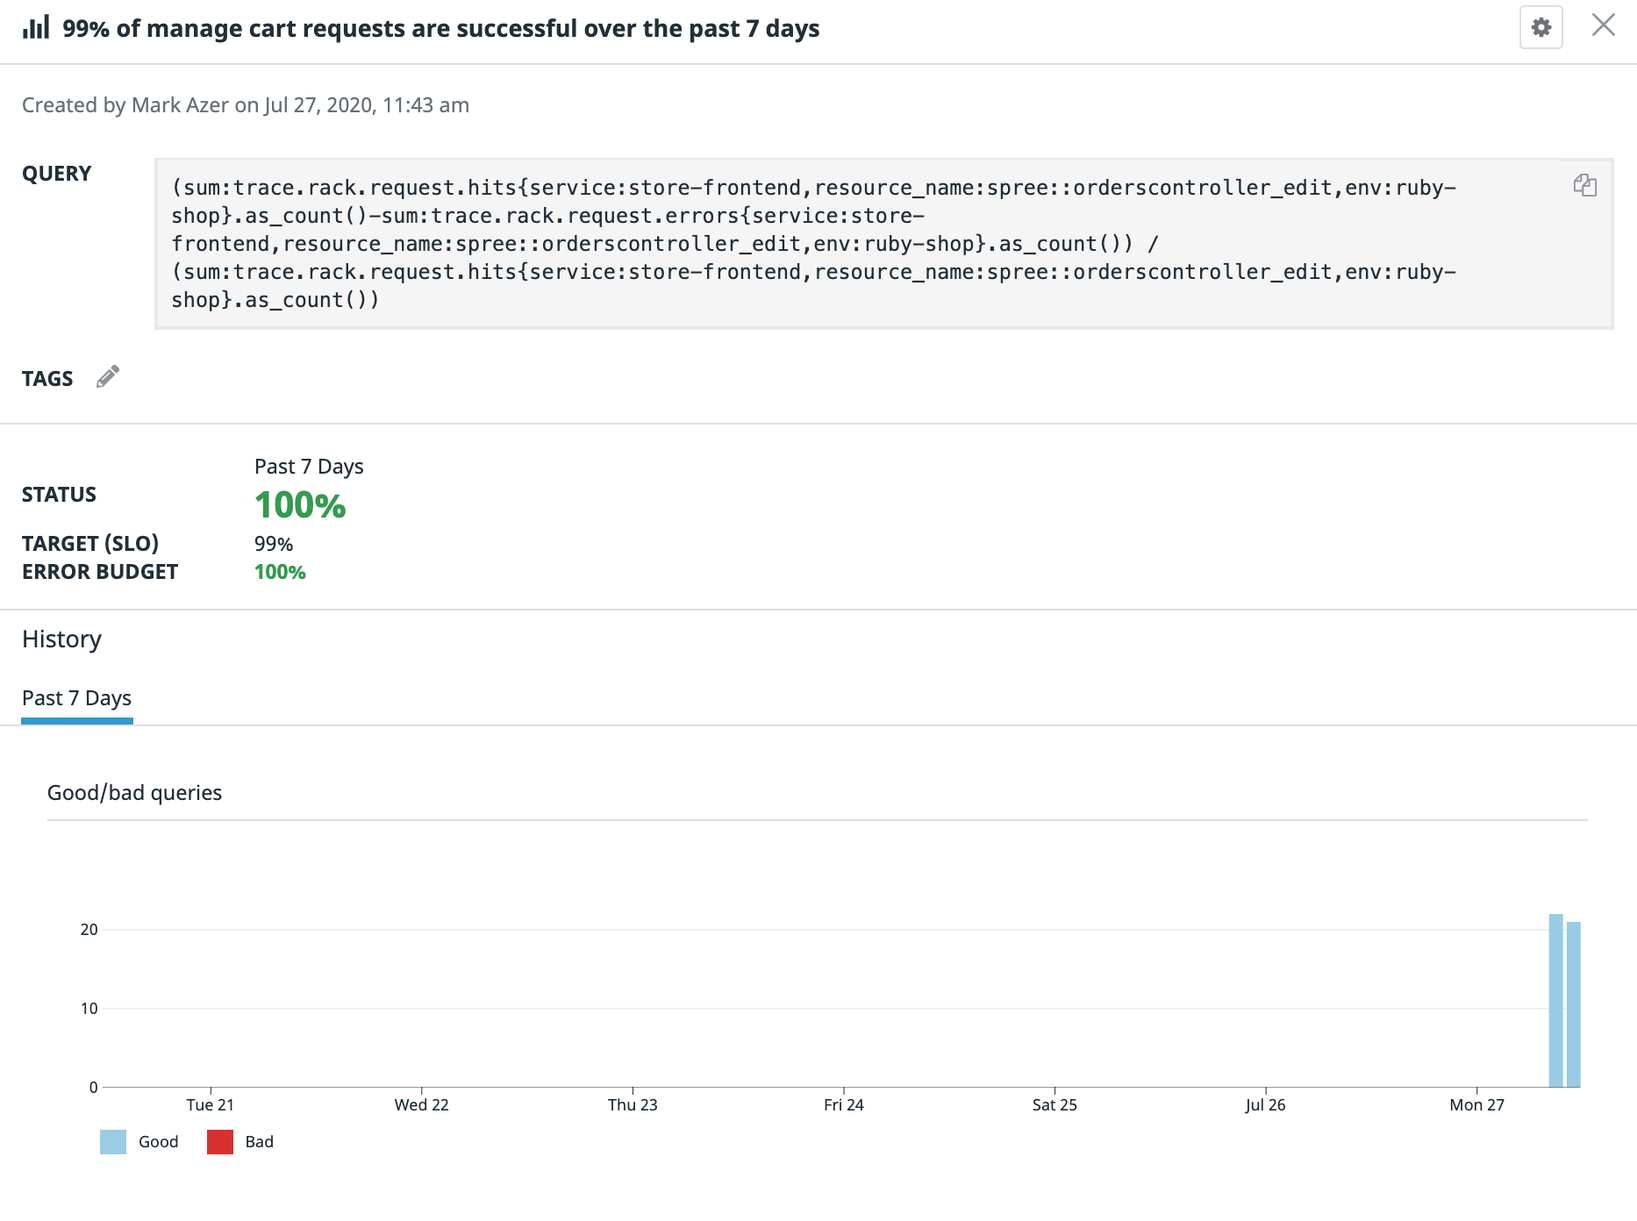
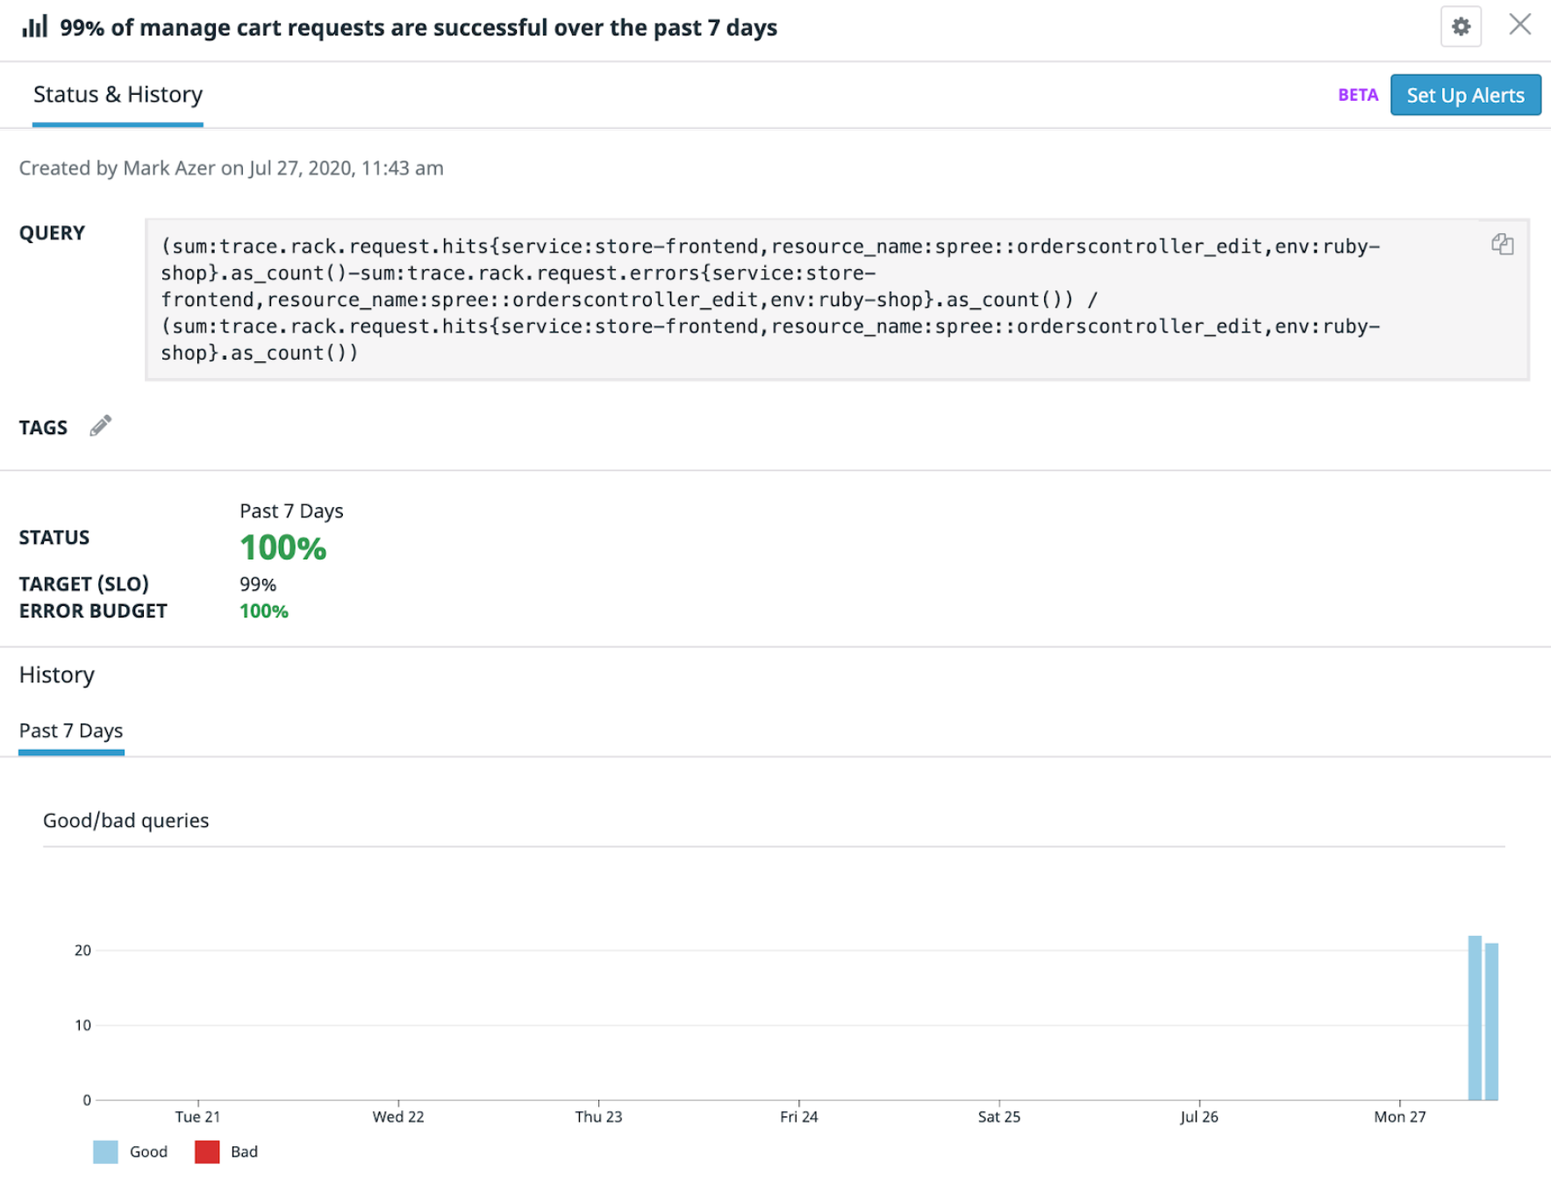
add 2020 SLO workshop

diff --git a/service-level-objectives/step6.md b/service-level-objectives/step6.md
@@ -1,31 +1,34 @@
-# Latency SLIs using bucketed counters (optional)
+# Modeling failure in our systems
 
-Note: There is no action in the Katacoda environment for this step. This is for discussion. 
+Let's start introducing errors by switching images! This will allow us to explore what happens to our SLO's status and error budget and will cause our Error Budget Monitor to alert. 
+ 
+In a real world scenario, a popular e-commerce site will receive a lot of traffic and there is eventually going to be some errors introduced in the application for various reasons. For now we are dealing with our hypothetical web store. 
 
-As we also care about the latency experienced by our users, we’ll now add a Latency SLI for our User Journey.
+Close all storedog tabs that you have open in your browser.
+ 
+In the first terminal window where you currently have docker-compose running, press CTRL + C to stop the command. Wait 10 to 15 seconds until docker-compose gracefully stops and you regain the ability to type commands in the terminal window.
 
-There are several ways of implementing a Latency SLI. One way that we are going to discuss during this step is to increment a counter for each event (e.g a HTTP  request) that completes under a certain time (the good events) and compare this value to the total number of events. It’s also helpful to increment multiple counters that represent “buckets” of time, for example:
-* All requests <= 250ms
-* All requests <= 500ms
-* All requests <= 1s
+Now enter a new docker-compose command using the broken image like so:
 
-We call this technique “bucketed counters”. The algorithm can be summarized like this in pseudo-code:
+`docker-compose -f ./docker-compose-files/docker-compose-broken-instrumented.yml up`
 
-`Buckets = [10, 50, 500] # in milliseconds`
+Wait a few minutes until the application has fully started again.
+ 
+Try going back to the storedog homepage, selecting a product and adding it to your cart. What happens when you do this? You should be getting a NoMethodError. In the real world this could have been any error that causes a manage cart request to fail. Press the back button in your browser and try adding other items to your cart to purposely induce more errors.
+ 
+Go back to the SLO details side panel. What do you see now? Your SLO status and error budget should no longer be 100% anymore. In fact, your SLO has likely already breached! This is due to the relatively low traffic and the trace metrics only having less than an hour's worth of history, so the denominator value is very small, making the SLO sensitive to even just one error. In a real world scenario the number of total events will be in the thousands or millions, so one error wouldn't normally have such a large impact.
 
-`For each event (e.g request):`
-	`startTime = Start a time timer`
-	`do something with this event...`
-	`endTime = Stop the timer`
-	`timeTaken = endTime - startTime`
+![SLO Detail Errors](/datadog/scenarios/service-level-objectives/assets/details-error.png)
+ 
+Try hovering over the different colored bars in the bar graph and you'll be able to see a count of good and bad events that occurred at a given time: 
 
-	`Foreach bucket in sort(buckets):`
-		`If timeTaken <= bucket:`
-`incrementCounter(“metric.latency.count.under_{bucket}”, 1)`
-	`incrementCounter(“metrics.latency.count.total”, 1)`
+![Bar Graph Errors](/datadog/scenarios/service-level-objectives/assets/graph-errors.png)
 
-To implement this you’ll need to emit custom metrics from the application using Dogstatd, https://docs.datadoghq.com/developers/dogstatsd/.
+You should also notice that your Error Budget Monitor has now entered the `ALERT` state.
 
-You can then create a new Metric Based SLO based on the two metrics.
+![Alert State](/datadog/scenarios/service-level-objectives/assets/alert-state.png)
 
-Note: There is no action in the Katacoda environment for this step.
+When you begin to set SLOs on your own products using Datadog, your goal should always be to spend your error budget without breaching the SLO. Don't forget to experiment with your SLO targets until you find the right balance for your products and teams! This helps maintain a high standard for your end user experience, while also making goals manageable and realistic for your engineering team to accomplish.
+
+That concludes the required steps of this workshop, Steps 7 and 8 are optional if you are interested! We hope this workshop was valuable to you and showed you that by being diligent with creating and managing SLOs for critical user journeys, we can uncover user experience issues and take action to resolve them quickly to reduce their impact!
+

diff --git a/service-level-objectives/step5.md b/service-level-objectives/step5.md
@@ -1,29 +1,23 @@
-# Modeling failure in our systems
+# Setting an alert on our SLO
 
-Let's start introducing errors by switching images! This will allow us to explore what happens to our SLO's status and error budget. 
- 
-In a real world scenario, a popular e-commerce site will receive a lot of traffic and there is eventually going to be some errors introduced in the application for various reasons. For now we are dealing with our hypothetical web store. 
+In order to avoid overspending your error budget, you need to be paying attention to when your SLO is close to being breached. Overspending your error budget means you've violated your SLO and might be on the hook to compensate your clients as per the stipulations in your SLA. Once you've gotten close to 100% consumption of your error budget, the team responsible for that SLO or user journey should switch priorities from feature development to reliability work to prevent any breaches.
 
-After you're done, close all storedog tabs that you have open in your browser.
- 
-In the first terminal window where you currently have docker-compose running, press CTRL + C to stop the command. Wait 10 to 15 seconds until docker-compose gracefully stops and you regain the ability to type commands in the terminal window.
+To that end, new for Dash 2020, we are excited to announce Error Budget Monitors in public beta for metric-based SLOs! Error Budget Monitors notify you when a certain percentage of your error budget has been consumed. Error Budget Monitors are great for helping you take a proactive approach to managing the health of your SLOs and ensuring you make use of your error budgets without overspending. 
 
-Now enter a new docker-compose command using the broken image like so:
+Now that we've created a metric-based SLO, let's set an Error Budget Monitor on it! 
 
-<pre data-target="clipboard">
-docker-compose -f ./docker-compose-files/docker-compose-broken-instrumented.yml up
-</pre>
+To do this, go back to the details side panel of your SLO and select the `Set up Alerts` button. This will take you to a configuration page for you to set your Error Budget Monitor. In a real world scenario, it would make sense to set the monitor to alert us a bit before we've completely spent our error budget, so let's set our thresholds accordingly.
 
-Wait a few minutes until the application has fully started again.
- 
-Try going back to the storedog homepage, selecting a product and adding it to your cart. What happens when you do this? You should be getting a NoMethodExists error. In the real world this could have been any error that causes the add item request to fail. Press the back button in your browser and try adding other items to your cart to purposely induce more errors.
- 
-Go back to the SLO details page. What do you see now? Your SLO status and error budget should no longer be 100% anymore .
+1. Set the alert threshold to `90%` so that the monitor is configured to notify us before our error budget is 100% consumed
+2. Using the `New Condition` button, we can add an optional warning threshold. `75%` would be a sensible choice.
+3. Enter a monitor message in the large text box. *Optional* type in `@` and select your name to receive an email notification.
 
-![SLO Detail Errors](./assets/details-error.png)
- 
-Try hovering over the different colored bars in the bar graph and you'll be able to see a count of good and bad events that occurred at a given time: 
+![Error Budget Monitor](/datadog/scenarios/service-level-objectives/assets/error-budget-monitor.png)
 
-![Bar Graph Errors](./assets/graph-errors.png)
+Save the monitor when you're done!
 
-Over time if these errors were to continue at a high pace, our error budget would quickly deplete and we might be at risk of breaching our Service Level Agreements (SLAs) with customers. By being diligent with creating and managing SLOs for critical user journeys we can uncover user experience issues and take action to resolve them quickly to reduce their impact!
+You'll see the monitor appear under the `Alerts` tab in your SLO's side panel. Initially it will be in `NO DATA` since it was just created, before quickly transitioning to `OK` as we haven't introduced any errors yet.
+
+![Alerts Tab](/datadog/scenarios/service-level-objectives/assets/alerts-tab.png)
+
+In the next step, we'll purposely introduce some errors to breach our SLO and cause our Error Budget Monitor to alert.

diff --git a/service-level-objectives/step4.md b/service-level-objectives/step4.md
@@ -2,7 +2,7 @@
 
 Navigate to create a new SLO to track the error rate of the requests for managing our cart. You can get there by clicking through to the sub-nav item under Monitors, **Monitors -> New SLO** or going directly to https://app.datadoghq.com/slo/new
 
-![SLO navigation](./assets/slo-nav.png)
+![SLO navigation](/datadog/scenarios/service-level-objectives/assets/slo-nav.png)
 
 ## Identify the SLI 
 
@@ -20,10 +20,10 @@ Simple! Good events are just the total events minus the bad events and we can co
 
 1. In the numerator field select `trace.rack.request.hits` 
 2. Click on **Advanced...** 
-![Advanced Query](./assets/advanced.png)
+![Advanced Query](/datadog/scenarios/service-level-objectives/assets/advanced.png)
 3. Press the **Add Query** button, a second metric query row will appear labelled *b*
 4. For metric b, select `trace.rack.request.errors`. Since there haven’t been any errors, you’ll probably need to edit the query directly by clicking `</>` and entering `sum:trace.rack.request.errors{service:store-frontend,resource_name:spree::orderscontroller_edit,env:ruby-shop}.as_count()` manually. 
-![Error Metric Query](./assets/error-metric.png)
+![Error Metric Query](/datadog/scenarios/service-level-objectives/assets/error-metric.png)
 5. Change the expression `a + b` to `a - b`
 6. For both metrics make sure to scope them down to the resource we are tracking by selecting `service:store-frontend`, `resource_name:spree::ordercontroller_edit` and `env:ruby-shop` in the **from** clause of both metrics. 
 
@@ -31,13 +31,13 @@ This subtraction query now repesents all “good” (successful) requests to man
 
 **Second step:** We now need to define our total events. The metric `trace.rack.request.hits` already represents total events, so select it and make sure to also scope it down to `service:store-frontend`, `resource_name:spree::ordercontroller_edit` and `env:ruby-shop` in the **from** clause.
 
-![SLI Edit](./assets/sli-edit.png)
+![SLI Edit](/datadog/scenarios/service-level-objectives/assets/sli-edit.png)
 
 ## Set the SLO 
 
 Next we set the SLO target percentage and time window we are measuring against. Select 99% over a 7 day time window. You can also set an optional warning target (like 99.1% for example).
 
-![Time Window](./assets/time-window.png)
+![Time Window](/datadog/scenarios/service-level-objectives/assets/time-window.png)
 
 This means that we are setting an SLO to say that 99% of the requests customers make for managing their cart must be successful over the past 7 days. You can even use this as your title! 
 
@@ -51,6 +51,6 @@ Check out your data on the SLO detail page!
 
 Go back to the web app and view/update your cart to generate more requests!
 
-When you first check it out, it’ll likely say 100%. With the nature of the workshop, there aren’t any errors yet (and also a lower number of requests). But in our next step we will purposely introduce errors into our application.
+When you first check it out, it’ll likely say 100%. With the nature of the workshop, there aren’t any errors yet (and also a low number of total events).
 
-![SLO Details](./assets/slo-details.png)
+![SLO Details](/datadog/scenarios/service-level-objectives/assets/slo-details.png)

diff --git a/service-level-objectives/step7.md b/service-level-objectives/step7.md
@@ -1,19 +1,31 @@
-# Creating a monitor-based SLO (optional)
+# Latency SLIs using bucketed counters (optional)
 
-Another way to track latency as an SLI would be using a Datadog monitor in a Monitor Based SLO. We can define this SLI as: *“99% of time, the p99 latency of a cart request should be lower than 1s”*
+Note: There is no action in the Katacoda environment for this step. This is for discussion. 
 
-Navigate to **Monitors -> New Monitors** and select type APM, or go directly to https://app.datadoghq.com/monitors#create/apm
+As we also care about the latency experienced by our users, we’ll now add a Latency SLI for our User Journey.
 
-1. The **Primary tag** should be `env:ruby-shop` by default
-2. For **Service** select `store-frontend`
-3. For **Resource** select `spree::ordercontroller_edit`
-4. Under *Set alert conditions* set the monitor to alert when the `p99 latency` is above `1s` over the `last 5 minutes`. 
-5. Save the monitor
+There are several ways of implementing a Latency SLI. One way that we are going to discuss during this step is to increment a counter for each event (e.g a HTTP  request) that completes under a certain time (the good events) and compare this value to the total number of events. It’s also helpful to increment multiple counters that represent “buckets” of time, for example:
+* All requests <= 250ms
+* All requests <= 500ms
+* All requests <= 1s
 
-Now let’s create our SLO. Go to https://app.datadoghq.com/slo/new. Select `Monitor Based` and select the monitor you just created from the dropdown by searching for its name. Then set a target of 99% over the past 7 day and save the new SLO.
+We call this technique “bucketed counters”. The algorithm can be summarized like this in pseudo-code:
 
-This SLO's status should be less than 100% due to there being poor latency in the broken image, both when you were using the application in this state and due to the simulated traffic also experiencing poor latency.
+`Buckets = [10, 50, 500] # in milliseconds`
 
-Click on IoT Project in Katacoda to open the app.
+`For each event (e.g request):`
+	`startTime = Start a time timer`
+	`do something with this event...`
+	`endTime = Stop the timer`
+	`timeTaken = endTime - startTime`
 
-Note: You may have noticed that we are using a gauge metric to represent the latency for this example: `trace.rack.request.duration.by.resource_service.99p` and we used a monitor to find out the percentage of the time that this gauge is under our threshold. While this works, it can be a bit hard to grasp. Whether you use monitors or latency as bucketed counters, you should select whatever works better for your requirements. 
+	`Foreach bucket in sort(buckets):`
+		`If timeTaken <= bucket:`
+`incrementCounter(“metric.latency.count.under_{bucket}”, 1)`
+	`incrementCounter(“metrics.latency.count.total”, 1)`
+
+To implement this you’ll need to emit custom metrics from the application using Dogstatd, https://docs.datadoghq.com/developers/dogstatsd/.
+
+You can then create a new Metric Based SLO based on the two metrics.
+
+Note: There is no action in the Katacoda environment for this step.

diff --git a/service-level-objectives/step3.md b/service-level-objectives/step3.md
@@ -1,8 +1,8 @@
 # Exploring available metrics for SLIs 
 
-We're going to need to find metrics that can act as our SLIs. With Datadog you have several different options: you can explore and search for metrics in notebooks, across your monitors and dashboards, or across your services instrumented with APM like what we will be doing here. To dig into the services, resources, and the available metrics, let’s search our traces: https://app.datadoghq.com/apm/search 
+We're going to need to find metrics that can act as our SLIs. With Datadog you have several different options: you can explore and search for metrics in notebooks, across your monitors and dashboards, or across your services instrumented with APM (what we will be doing here). To dig into the services, resources, and the available metrics, let’s search our traces: https://app.datadoghq.com/apm/search 
 
-![Trace Search](./assets/trace-search.png)
+![Trace Search](/datadog/scenarios/service-level-objectives/assets/trace-search.png)
 
 We care about users being able to manage items in their carts so let’s scope our trace search down. In the search facets on the left, select the following: 
 
@@ -11,11 +11,11 @@ We care about users being able to manage items in their carts so let’s scope o
 
 You now can see the traces for trying to access your cart. We see that none of the requests to the `Spree::OrdersController#edit` resource have resulted in errors so far. 
 
-![Trace View](./assets/trace-view.png)
+![Trace View](/datadog/scenarios/service-level-objectives/assets/trace-view.png)
 
 But eventually will look something like this when we purposely introduce errors: 
 
-![Trace Errors](./assets/trace-errors.png)
+![Trace Errors](/datadog/scenarios/service-level-objectives/assets/trace-errors.png)
 
 You can see that these traces consist of requests to `/cart` in the frontend service. We're going to want these requests to be successful and fast to ensure customers have a positive end user experience with storedog.
 

diff --git a/service-level-objectives/step2.md b/service-level-objectives/step2.md
@@ -2,13 +2,13 @@
 
 Take the opportunity to explore the web app by clicking on the `storedog` tab in the Katacoda terminal to open it in your browser.  
 
-Sign in into Datadog, and check to see if the services have appeared by going to the APM Services page by navigating to **APM -> Services**, or by clicking https://app.datadoghq.com/apm/services. 
+Sign into Datadog, and check to see if the services have appeared by going to the APM Services page by navigating to **APM -> Services**, or by clicking https://app.datadoghq.com/apm/services. 
 
-![Services Navigation](./assets/services-nav.png)
+![Services Navigation](/datadog/scenarios/service-level-objectives/assets/services-nav.png)
 
 The page should look something like this: 
 
-![Services List](./assets/services-list.png)
+![Services List](/datadog/scenarios/service-level-objectives/assets/services-list.png)
 
 Eventually, when you switch to using the broken image you'll see parts of the application experiencing high error rates.
 
@@ -20,7 +20,7 @@ In the interest of time, let's focus on one particular user journey: managing it
 
 If this particular user journey were to become unreliable, our hypothetical customers might not be able complete the purchases that they want to make. Since this user journey is so critical to this application, that makes it a great candidate for setting an SLO to ensure its reliability.
 
-![storedog Cart](./assets/storedog-cart.png)
+![storedog Cart](/datadog/scenarios/service-level-objectives/assets/storedog-cart.png)
 
 Now that we've selected a critical user journey, what Service Level Indicators (SLIs) should we track? Since this is a request/response endpoint, it would be a good idea to set an SLO on its success rate and its latency.
 

diff --git a/service-level-objectives/step8.md b/service-level-objectives/step8.md
@@ -1,0 +1,19 @@
+# Creating a monitor-based SLO (optional)
+
+Another way to track latency as an SLI would be using a Datadog monitor in a Monitor Based SLO. We can define this SLI as: *“99% of time, the p99 latency of a cart request should be lower than 1s”*
+
+Navigate to **Monitors -> New Monitors** and select type APM, or go directly to https://app.datadoghq.com/monitors#create/apm
+
+1. The **Primary tag** should be `env:ruby-shop` by default
+2. For **Service** select `store-frontend`
+3. For **Resource** select `spree::ordercontroller_edit`
+4. Under *Set alert conditions* set the monitor to alert when the `p99 latency` is above `1s` over the `last 5 minutes`. 
+5. Save the monitor
+
+Now let’s create our SLO. Go to https://app.datadoghq.com/slo/new. Select `Monitor Based` and select the monitor you just created from the dropdown by searching for its name. Then set a target of 99% over the past 7 day and save the new SLO.
+
+This SLO's status should be less than 100% due to there being poor latency in the broken image, both when you were using the application in this state and due to the simulated traffic also experiencing poor latency.
+
+Click on IoT Project in Katacoda to open the app.
+
+Note: You may have noticed that we are using a gauge metric to represent the latency for this example: `trace.rack.request.duration.by.resource_service.99p` and we used a monitor to find out the percentage of the time that this gauge is under our threshold. While this works, it can be a bit hard to grasp. Whether you use monitors or latency as bucketed counters, you should select whatever works better for your requirements. 

diff --git a/service-level-objectives/step1.md b/service-level-objectives/step1.md
@@ -6,11 +6,9 @@ You can inspect the `docker-compose-fixed-instrumented.yml` in the `/docker-comp
 
 To get started you'll need to run the following command in the terminal to your right:
 
-<pre data-target="clipboard">
-docker-compose -f ./docker-compose-files/docker-compose-fixed-instrumented.yml up
-</pre>
+`docker-compose -f ./docker-compose-files/docker-compose-fixed-instrumented.yml up`
 
-You can check that storedog is running by clicking on the `storedog` tab next to the `Terminal` tab to your right. **Note:** It takes several minutes for the docker-compose command to fully ramp up, so if you see a page like this one just wait a little bit longer before refreshing the page:
+You can check that storedog is successfully running by clicking on the `storedog` tab next to the `Terminal` tab to your right. **Note:** It takes several minutes for the docker-compose command to fully ramp up, so if you see a page like this one just wait a little bit longer before refreshing the page:
 
 ![Port Error](/datadog/scenarios/service-level-objectives/assets/katacoda-error.png)
 
